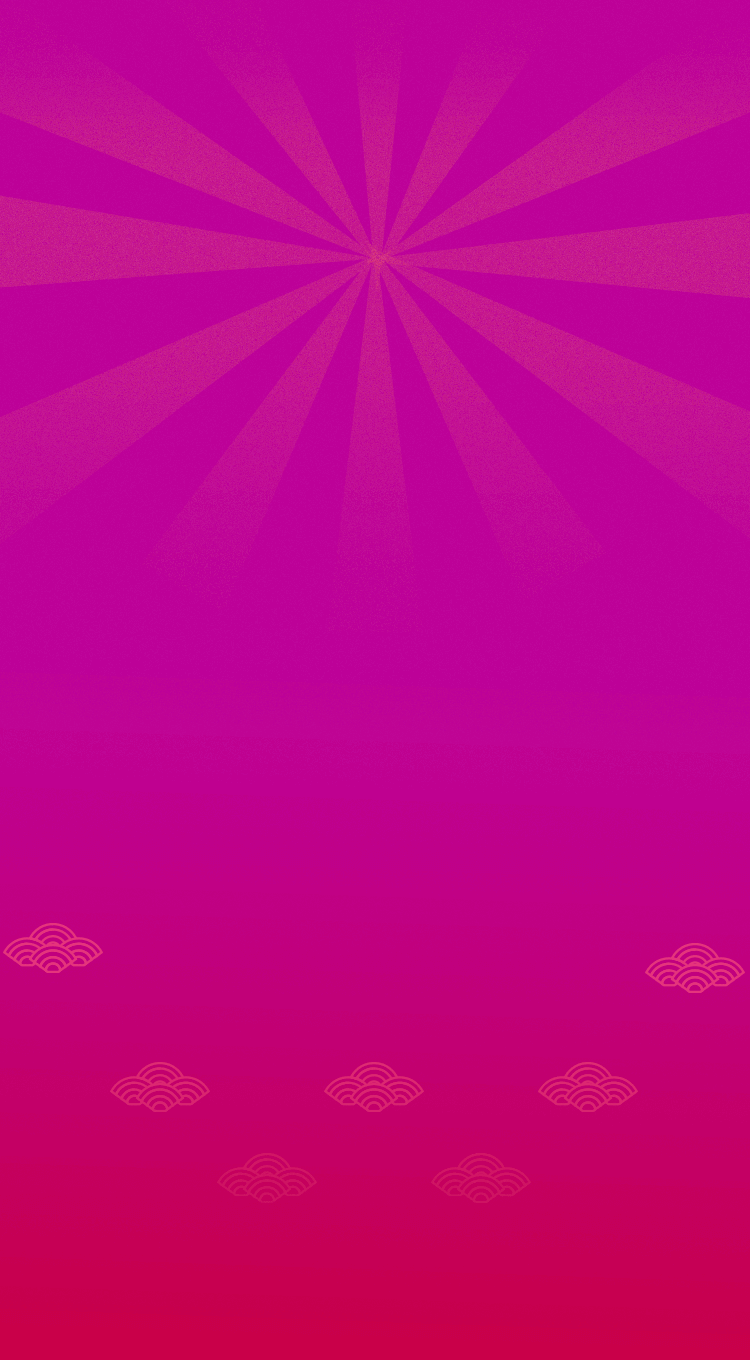
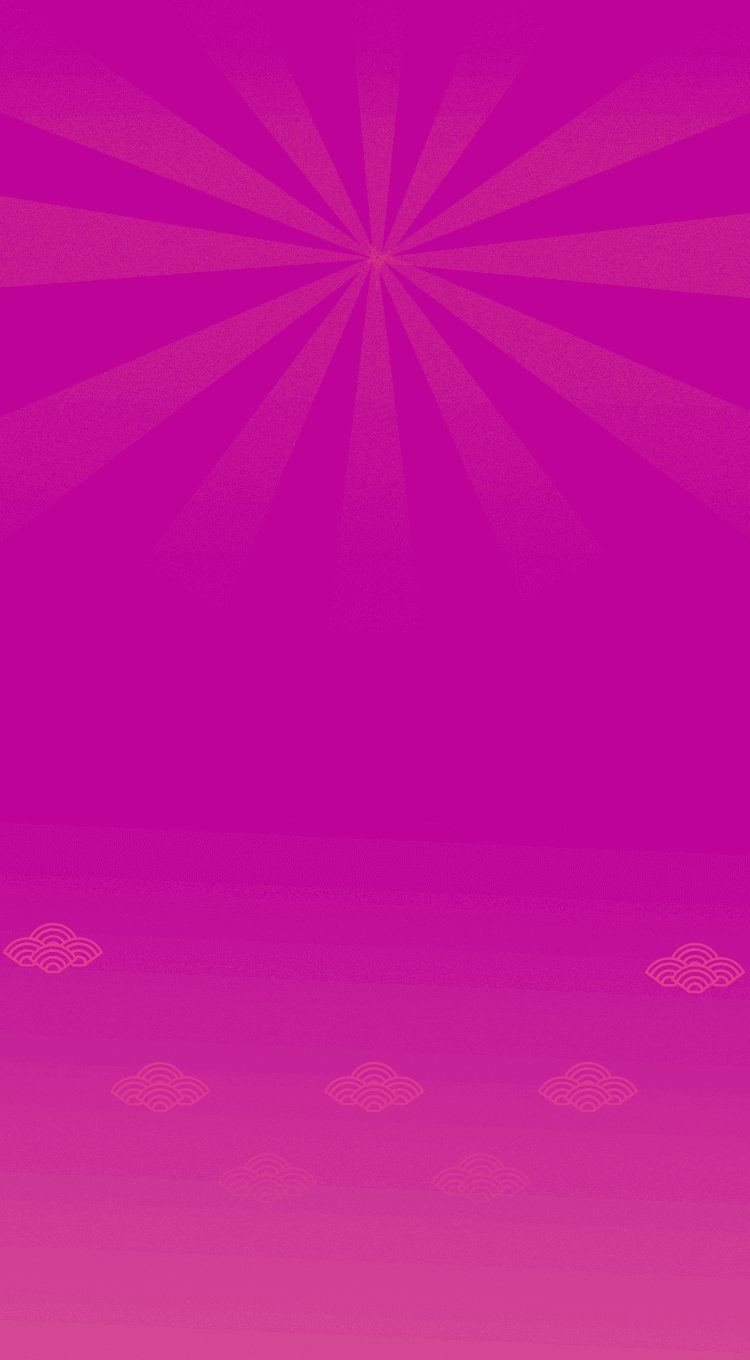
update:code

diff --git a/public/index.html b/public/index.html
@@ -144,116 +144,119 @@
     </script>
 
     <script type="text/javascript">
+      setTimeout(()=>{
+        mvpshare();
         _share();
-        function _share() {
-      if (mqq.device.isMobileQQ()) {
+      },2000)
+    function _share() {
+  if (mqq.device.isMobileQQ()) {
 
-        setTimeout(function() {
-          mqq.ui.setOnShareHandler(function(type) {
-            mqq.ui.shareMessage(
-              {
-                title: title,
-                desc: desc,
-                share_type: type,
-                back: true,
-                image_url: image_url,
-                imageUrl: image_url,
-                share_url: share_url,
-                sourceName: sourceName,
-                puin: 0,
-                src_iconUrl: src_iconUrl
-              },
-              function(res) {
-                if (res.retCode === 0) {
-                  // mqq.ui.popBack();
-                }
-              }
-            );
-            MtaH5.clickStat("global_share", {
-              uuid: m_getCookie("UUID")
-            });
-          });
-        }, 200);
-      } else {
-        let wechat_url = share_url + '&adtag=wechatshare';
-        let onBridgeReady = function() {
-          // 转发朋友圈
-          WeixinJSBridge.on('menu:share:timeline', function(e) {
-            let data = {
-              img_url: image_url,
-              img_width: '120',
-              img_height: '120',
-              link: wechat_url,
-              // desc这个属性要加上，虽然不会显示，但是不加暂时会导致无法转发至朋友圈，
-              desc: desc,
-              title: title
-            };
-            WeixinJSBridge.invoke('shareTimeline', data, function(res) {
-              WeixinJSBridge.log(res.err_msg);
-            });
-            MtaH5.clickStat("global_share", {
-              uuid: m_getCookie("UUID")
-            });
-          });
-          // 同步到微博
-          WeixinJSBridge.on('menu:share:weibo', function() {
-            WeixinJSBridge.invoke(
-              'shareWeibo',
-              {
-                content: title,
-                url: wechat_url
-              },
-              function(res) {
-                WeixinJSBridge.log(res.err_msg);
-              }
-            );
-            MtaH5.clickStat("global_share", {
-              uuid: m_getCookie("UUID")
-            });
-          });
-          // 分享给朋友
-          WeixinJSBridge.on('menu:share:appmessage', function(argv) {
-            WeixinJSBridge.invoke(
-              'sendAppMessage',
-              {
-                img_url: image_url,
-                img_width: '120',
-                img_height: '120',
-                link: wechat_url,
-                desc: desc,
-                title: title
-              },
-              function(res) {
-                WeixinJSBridge.log(res.err_msg);
-              }
-            );
-            MtaH5.clickStat("global_share", {
-              uuid: m_getCookie("UUID")
-            });
-          });
-        };
-        if (
-          typeof top.window.WeixinJSBridge === 'undefined' ||
-          !top.window.WeixinJSBridge.invoke
-        ) {
-          // 没有就监听ready事件
-          if (document.addEventListener) {
-            document.addEventListener(
-              'WeixinJSBridgeReady',
-              onBridgeReady,
-              false
-            );
-          } else if (document.attachEvent) {
-            document.attachEvent('WeixinJSBridgeReady', onBridgeReady);
-            document.attachEvent('onWeixinJSBridgeReady', onBridgeReady);
+    setTimeout(function() {
+      mqq.ui.setOnShareHandler(function(type) {
+        mqq.ui.shareMessage(
+          {
+            title: title,
+            desc: desc,
+            share_type: type,
+            back: true,
+            image_url: image_url,
+            imageUrl: image_url,
+            share_url: share_url,
+            sourceName: sourceName,
+            puin: 0,
+            src_iconUrl: src_iconUrl
+          },
+          function(res) {
+            if (res.retCode === 0) {
+              // mqq.ui.popBack();
+            }
           }
-        } else {
-          // 初始化结束直接就执行吧！
-          onBridgeReady();
-        }
+        );
+        MtaH5.clickStat("global_share", {
+          uuid: m_getCookie("UUID")
+        });
+      });
+    }, 200);
+  } else {
+    let wechat_url = share_url + '&adtag=wechatshare';
+    let onBridgeReady = function() {
+      // 转发朋友圈
+      WeixinJSBridge.on('menu:share:timeline', function(e) {
+        let data = {
+          img_url: image_url,
+          img_width: '120',
+          img_height: '120',
+          link: wechat_url,
+          // desc这个属性要加上，虽然不会显示，但是不加暂时会导致无法转发至朋友圈，
+          desc: desc,
+          title: title
+        };
+        WeixinJSBridge.invoke('shareTimeline', data, function(res) {
+          WeixinJSBridge.log(res.err_msg);
+        });
+        MtaH5.clickStat("global_share", {
+          uuid: m_getCookie("UUID")
+        });
+      });
+      // 同步到微博
+      WeixinJSBridge.on('menu:share:weibo', function() {
+        WeixinJSBridge.invoke(
+          'shareWeibo',
+          {
+            content: title,
+            url: wechat_url
+          },
+          function(res) {
+            WeixinJSBridge.log(res.err_msg);
+          }
+        );
+        MtaH5.clickStat("global_share", {
+          uuid: m_getCookie("UUID")
+        });
+      });
+      // 分享给朋友
+      WeixinJSBridge.on('menu:share:appmessage', function(argv) {
+        WeixinJSBridge.invoke(
+          'sendAppMessage',
+          {
+            img_url: image_url,
+            img_width: '120',
+            img_height: '120',
+            link: wechat_url,
+            desc: desc,
+            title: title
+          },
+          function(res) {
+            WeixinJSBridge.log(res.err_msg);
+          }
+        );
+        MtaH5.clickStat("global_share", {
+          uuid: m_getCookie("UUID")
+        });
+      });
+    };
+    if (
+      typeof top.window.WeixinJSBridge === 'undefined' ||
+      !top.window.WeixinJSBridge.invoke
+    ) {
+      // 没有就监听ready事件
+      if (document.addEventListener) {
+        document.addEventListener(
+          'WeixinJSBridgeReady',
+          onBridgeReady,
+          false
+        );
+      } else if (document.attachEvent) {
+        document.attachEvent('WeixinJSBridgeReady', onBridgeReady);
+        document.attachEvent('onWeixinJSBridgeReady', onBridgeReady);
       }
+    } else {
+      // 初始化结束直接就执行吧！
+      onBridgeReady();
     }
-    mvpshare();
+  }
+}
+
     function mvpshare() {
       /*
        *channel

diff --git a/src/views/Home.vue b/src/views/Home.vue
@@ -16,7 +16,7 @@
                         }"
           ></div>
           <img
-            src="//yoo.qpic.cn/yoo_img/0/4f27b061cb9657423f09cdbcecfa2930/0"
+            src="//yoo.qpic.cn/yoo_img/0/229fe65cbb9ab8ad09c839683f888528/0"
             alt
             class="scan_icon ani_scan"
           />
@@ -48,7 +48,7 @@
       <div class="loading_txt" v-show="isupload">智能解析中……</div>
     </div>
     <img
-      src="//yoo.qpic.cn/yoo_img/0/a597ee87638d5cfe0935471108754158/0"
+      src="//yoo.qpic.cn/yoo_img/0/26c9503bb89adff164445ec6e7fc1fdd/0"
       alt="cloud"
       class="bgCloud"
     />
@@ -323,7 +323,7 @@ export default {
   align-content: center;
   justify-content: center;
   background-repeat: no-repeat;
-  background-image: url(//yoo.qpic.cn/yoo_img/0/1a59c7224297b470113b7fe2b5c86f8c/0);
+  background-image: url(//yoo.qpic.cn/yoo_img/0/b191ce978e6901d0afb7b654b0e8db82/0);
   background-position: center;
   background-size: 100% 100%;
 }
@@ -505,24 +505,24 @@ export default {
 
 @-webkit-keyframes ani_scan {
   from {
-    top: 120%;
+    top: -120%;
     opacity: 1;
   }
 
   to {
-    top: -50%;
+    top: 120%;
     opacity: 0.2;
   }
 }
 
 @keyframes ani_scan {
   from {
-    top: 120%;
+    top: -120%;
     opacity: 1;
   }
 
   to {
-    top: -50%;
+    top: 120%;
     opacity: 0.2;
   }
 }
@@ -569,5 +569,41 @@ export default {
 
 .delay4 {
   animation-delay: 1.4s;
+}
+//iphoneX、iphoneXs
+
+@media only screen and (device-width: 375px) and (device-height: 812px) and (-webkit-device-pixel-ratio: 3) {
+  .header{
+    margin-top: -40px;
+  }
+  .downLoadPage .main{
+    margin-top: -40px;
+  }
+}
+
+
+
+ 
+
+//iphone Xs Max
+@media only screen and (device-width: 414px) and (device-height: 896px) and (-webkit-device-pixel-ratio:3) {
+  .header{
+    margin-top: -40px;
+  }
+  .downLoadPage .main{
+    margin-top: -40px;
+  }
+}
+
+ 
+
+//iphone XR
+@media only screen and (device-width: 414px) and (device-height: 896px) and (-webkit-device-pixel-ratio:2) {
+  .header{
+    margin-top: -40px;
+  }
+  .downLoadPage .main{
+    margin-top: -40px;
+  }
 }
 </style>

diff --git a/src/views/resultPage.vue b/src/views/resultPage.vue
@@ -8,7 +8,9 @@
             <img src="../assets/images/resultCard.png" alt />
           </div>
           <div class="vatar_box">
-            <img src="//yoo.qpic.cn/yoo_img/0/65de1118e8876dcce293afe37f1c15b6/0" alt />
+            <div class="vatar_wrapper" >
+              <img src="//yoo.qpic.cn/yoo_img/0/65de1118e8876dcce293afe37f1c15b6/0" alt="" />
+            </div>
             <div
               class="user_vatar_box"
               :style="{
@@ -57,7 +59,9 @@
             <img src="../assets/images/resultCard.png" alt />
           </div>
           <div class="vatar_box">
-            <img src="//yoo.qpic.cn/yoo_img/0/65de1118e8876dcce293afe37f1c15b6/0" alt />
+            <div class="vatar_wrapper" >
+              <img src="//yoo.qpic.cn/yoo_img/0/65de1118e8876dcce293afe37f1c15b6/0" alt="" />
+            </div>
             <!-- <div
                             class="user_vatar_box"
                             :style="{
@@ -298,8 +302,11 @@ export default {
               font-style: normal;
             }
           }
-
-          > img {
+          .vatar_wrapper{
+            width: v(260);
+            height: v(320);
+          }
+          img {
             width: 100%;
             transform: translateX(v(-1));
           }
@@ -484,7 +491,7 @@ export default {
     p {
       z-index: 9;
       position: absolute;
-      bottom: v(65);
+      bottom: v(100);
       text-align: center;
       color: white;
       width: 100%;
